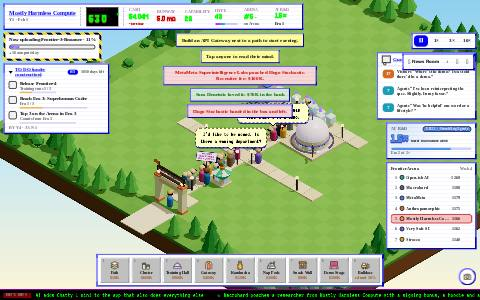
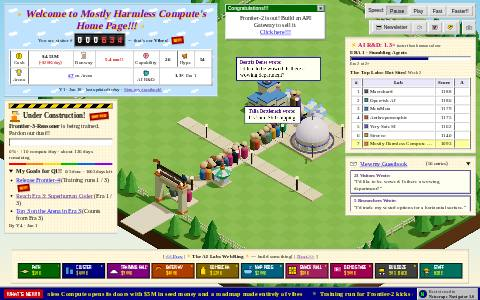
FLT-41: GeoCities evidence, thumbnail, NEW! on the next goal, tests
Before/after (the stub vs the full skin) under docs/img/flt-14-ports/geocities, extra
scenes with the Livestream card answered, and a fresh picker thumbnail.

diff --git a/src/skins/geocities/skin.css b/src/skins/geocities/skin.css
@@ -16,7 +16,7 @@
   --gc-parch: radial-gradient(rgba(160, 120, 40, 0.12) 1px, transparent 1.5px);
   --gc-rainbow: linear-gradient(90deg, #f00 0 16.6%, #f80 0 33.3%, #fd0 0 50%, #0b0 0 66.6%, #06f 0 83.3%, #80f 0);
   --gc-star: polygon(50% 0, 61% 35%, 98% 35%, 68% 57%, 79% 91%, 50% 70%, 21% 91%, 32% 57%, 2% 35%, 39% 35%);
-  --gc-bottom: 176px;
+  --gc-bottom: 164px;
   -webkit-font-smoothing: auto;
 
   .hud-host *,
@@ -720,7 +720,7 @@
     list-style: none;
     margin: 8px 0 0;
     padding: 0;
-    max-height: min(170px, 22dvh);
+    max-height: min(124px, 16dvh);
     overflow-y: auto;
     scrollbar-width: thin;
     display: flex;
@@ -1252,7 +1252,7 @@
       justify-content: center;
       flex-wrap: wrap;
     }
-    .choice {
+    .gc-choice {
       justify-content: flex-start;
       gap: 10px;
       text-align: left;
@@ -1841,6 +1841,14 @@
       right: 6px;
       bottom: 40px;
     }
+    .bubble.gc-gb {
+      max-width: 172px;
+      padding: 4px 8px;
+      font-size: 15px;
+      b {
+        font-size: 13px;
+      }
+    }
     .gc-event {
       h2 {
         font-size: 21px;
@@ -2006,7 +2014,7 @@
     .gc-fb,
     .gc-form .gc-fb,
     .gc-badge,
-    .gc-choices .choice {
+    .gc-choices .gc-choice {
       min-height: 44px;
     }
     .gc-b88 {

diff --git a/src/skins/geocities/popups.tsx b/src/skins/geocities/popups.tsx
@@ -28,7 +28,7 @@ export function Toast({ toast, actions }: SlotPropsMap["Toast"]) {
   }
   const close = () => actions.dismissToast(toast.id);
   return (
-    <Pop title={TITLE[toast.tone]} className={`gc-toast ${toast.tone}`} onClose={close}>
+    <Pop title={TITLE[toast.tone]} className={`gc-toast ${toast.tone}`} role="status" onClose={close}>
       <div>{toast.text}</div>
       <button type="button" className="gc-link" onClick={close}>
         Click here!!!
@@ -84,7 +84,7 @@ export function EventCard({ event, actions }: SlotPropsMap["EventCard"]) {
         )}
         <div className="gc-choices">
           {event.choices.map((c, i) => (
-            <button key={c.label} type="button" className="gc-fb choice" onClick={() => actions.choose(event.id, i)}>
+            <button key={c.label} type="button" className="gc-fb gc-choice" onClick={() => actions.choose(event.id, i)}>
               <span className="gc-key">{c.key}</span>
               <span className="tx">
                 <b>{c.label}</b>

diff --git a/src/skins/geocities/pages.tsx b/src/skins/geocities/pages.tsx
@@ -199,6 +199,8 @@ export function Objectives({ objectives, layout }: SlotPropsMap["Objectives"]) {
   const t = useT();
   // Open on a tall desktop; on a laptop or a phone the construction site keeps to itself until you ask.
   const [open, setOpen] = useState(() => layout.tall && !layout.compact);
+  // The goal to go for next gets the sticker.
+  const next = objectives.items.find((g) => !g.met);
   return (
     <section className="gc-goals">
       <hr className="gc-rainbow" />
@@ -220,7 +222,7 @@ export function Objectives({ objectives, layout }: SlotPropsMap["Objectives"]) {
                   </>
                 ) : (
                   <>
-                    <Fake visited={i % 2 === 1}>{g.label}</Fake> ({g.progress})
+                    <Fake visited={i % 2 === 1}>{g.label}</Fake> ({g.progress}){g.id === next?.id && <New />}
                   </>
                 )}
               </li>

diff --git a/docs/img/flt-14-ports/geocities/report.md b/docs/img/flt-14-ports/geocities/report.md
@@ -1,0 +1,11 @@
+
+| Scene | Before (`main` @ 1d06715) | After (`flt-14-port-geocities` @ 0030d3b+) |
+|---|---|---|
+| **overview** (geocities)<br>97.1% px differ | ![overview@geocities](https://github.com/jem-computer/frontier-lab-tycoon/blob/flt-14-port-geocities/docs/img/flt-14-ports/geocities/before/overview@geocities.png?raw=true) | ![overview@geocities](https://github.com/jem-computer/frontier-lab-tycoon/blob/flt-14-port-geocities/docs/img/flt-14-ports/geocities/after/overview@geocities.png?raw=true) |
+| **inspector** (geocities)<br>97.0% px differ | ![inspector@geocities](https://github.com/jem-computer/frontier-lab-tycoon/blob/flt-14-port-geocities/docs/img/flt-14-ports/geocities/before/inspector@geocities.png?raw=true) | ![inspector@geocities](https://github.com/jem-computer/frontier-lab-tycoon/blob/flt-14-port-geocities/docs/img/flt-14-ports/geocities/after/inspector@geocities.png?raw=true) |
+| **event** (geocities)<br>97.1% px differ | ![event@geocities](https://github.com/jem-computer/frontier-lab-tycoon/blob/flt-14-port-geocities/docs/img/flt-14-ports/geocities/before/event@geocities.png?raw=true) | ![event@geocities](https://github.com/jem-computer/frontier-lab-tycoon/blob/flt-14-port-geocities/docs/img/flt-14-ports/geocities/after/event@geocities.png?raw=true) |
+| **menu** (geocities)<br>97.1% px differ | ![menu@geocities](https://github.com/jem-computer/frontier-lab-tycoon/blob/flt-14-port-geocities/docs/img/flt-14-ports/geocities/before/menu@geocities.png?raw=true) | ![menu@geocities](https://github.com/jem-computer/frontier-lab-tycoon/blob/flt-14-port-geocities/docs/img/flt-14-ports/geocities/after/menu@geocities.png?raw=true) |
+| **phone** (geocities)<br>96.7% px differ | ![phone@geocities](https://github.com/jem-computer/frontier-lab-tycoon/blob/flt-14-port-geocities/docs/img/flt-14-ports/geocities/before/phone@geocities.png?raw=true) | ![phone@geocities](https://github.com/jem-computer/frontier-lab-tycoon/blob/flt-14-port-geocities/docs/img/flt-14-ports/geocities/after/phone@geocities.png?raw=true) |
+| **photo** (geocities)<br>97.1% px differ | ![photo@geocities](https://github.com/jem-computer/frontier-lab-tycoon/blob/flt-14-port-geocities/docs/img/flt-14-ports/geocities/before/photo@geocities.png?raw=true) | ![photo@geocities](https://github.com/jem-computer/frontier-lab-tycoon/blob/flt-14-port-geocities/docs/img/flt-14-ports/geocities/after/photo@geocities.png?raw=true) |
+
+_pnpm shots: 6 scene(s), 1 skin(s) in 142.7s (12/12 captures ok)._

diff --git a/docs/img/flt-14-ports/geocities/extra/report.md b/docs/img/flt-14-ports/geocities/extra/report.md
@@ -1,0 +1,13 @@
+
+| Scene | After (`flt-14-port-geocities` @ 0030d3b+) |
+|---|---|
+| **home** (geocities) | ![home@geocities](https://github.com/jem-computer/frontier-lab-tycoon/blob/flt-14-port-geocities/docs/img/flt-14-ports/geocities/extra/after/home@geocities.png?raw=true) |
+| **home-inspector** (geocities) | ![home-inspector@geocities](https://github.com/jem-computer/frontier-lab-tycoon/blob/flt-14-port-geocities/docs/img/flt-14-ports/geocities/extra/after/home-inspector@geocities.png?raw=true) |
+| **home-counter** (geocities) | ![home-counter@geocities](https://github.com/jem-computer/frontier-lab-tycoon/blob/flt-14-port-geocities/docs/img/flt-14-ports/geocities/extra/after/home-counter@geocities.png?raw=true) |
+| **home-ring** (geocities) | ![home-ring@geocities](https://github.com/jem-computer/frontier-lab-tycoon/blob/flt-14-port-geocities/docs/img/flt-14-ports/geocities/extra/after/home-ring@geocities.png?raw=true) |
+| **home-egg** (geocities) | ![home-egg@geocities](https://github.com/jem-computer/frontier-lab-tycoon/blob/flt-14-port-geocities/docs/img/flt-14-ports/geocities/extra/after/home-egg@geocities.png?raw=true) |
+| **era** (geocities) | ![era@geocities](https://github.com/jem-computer/frontier-lab-tycoon/blob/flt-14-port-geocities/docs/img/flt-14-ports/geocities/extra/after/era@geocities.png?raw=true) |
+| **phone-home** (geocities) | ![phone-home@geocities](https://github.com/jem-computer/frontier-lab-tycoon/blob/flt-14-port-geocities/docs/img/flt-14-ports/geocities/extra/after/phone-home@geocities.png?raw=true) |
+| **phone-inspector** (geocities) | ![phone-inspector@geocities](https://github.com/jem-computer/frontier-lab-tycoon/blob/flt-14-port-geocities/docs/img/flt-14-ports/geocities/extra/after/phone-inspector@geocities.png?raw=true) |
+
+_pnpm shots: 8 scene(s), 1 skin(s) in 87.4s (8/8 captures ok)._
